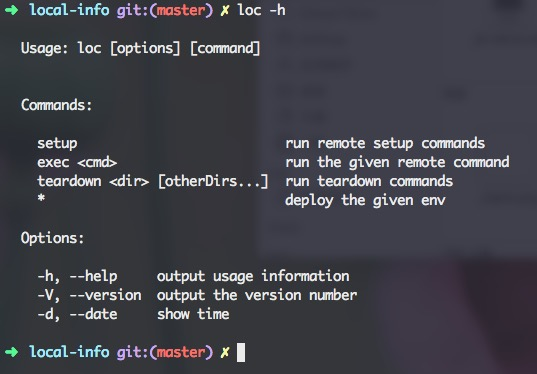
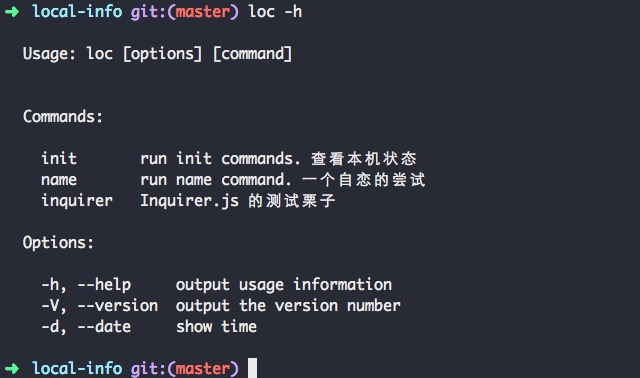
Update

diff --git a/README.md b/README.md
@@ -9,21 +9,20 @@ Show the local information.
 
 ```
 $ npm install -g local-info
+$ loc
 ```
 
 ## Usage
 
-```
-$ loc
-```
 ![loc](https://raw.githubusercontent.com/nieweidong/local-info/master/img/loc.png)
 
-## Help
-
-```
-$ loc -h
-```
 ![loc](https://raw.githubusercontent.com/nieweidong/local-info/master/img/loc-h.png)
+
+![loc](https://raw.githubusercontent.com/nieweidong/local-info/master/img/loc.gif)
+
+![loc](https://raw.githubusercontent.com/nieweidong/local-info/master/img/loc_init.png)
+
+![loc](https://raw.githubusercontent.com/nieweidong/local-info/master/img/loc_name.png)
 
 ## License
 
